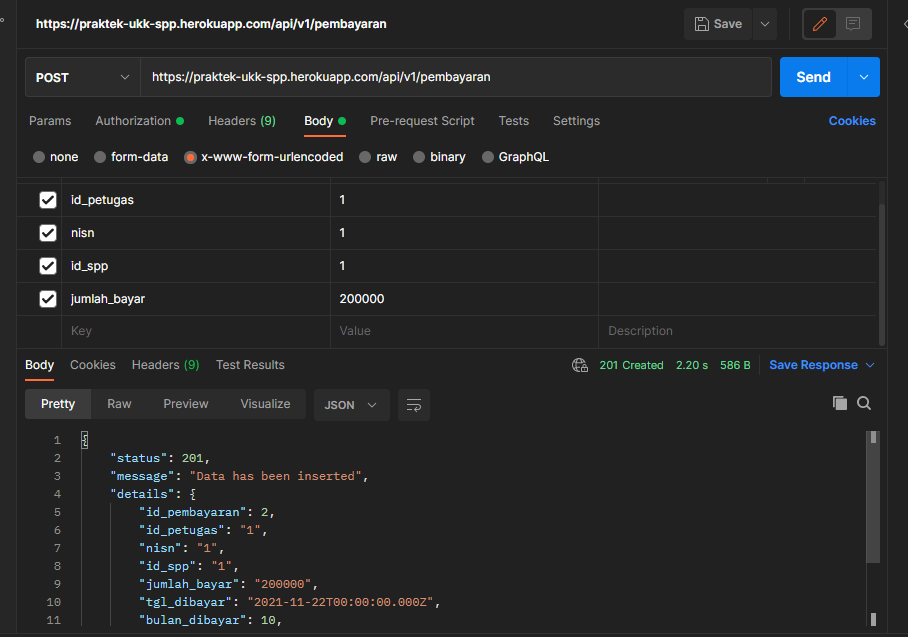
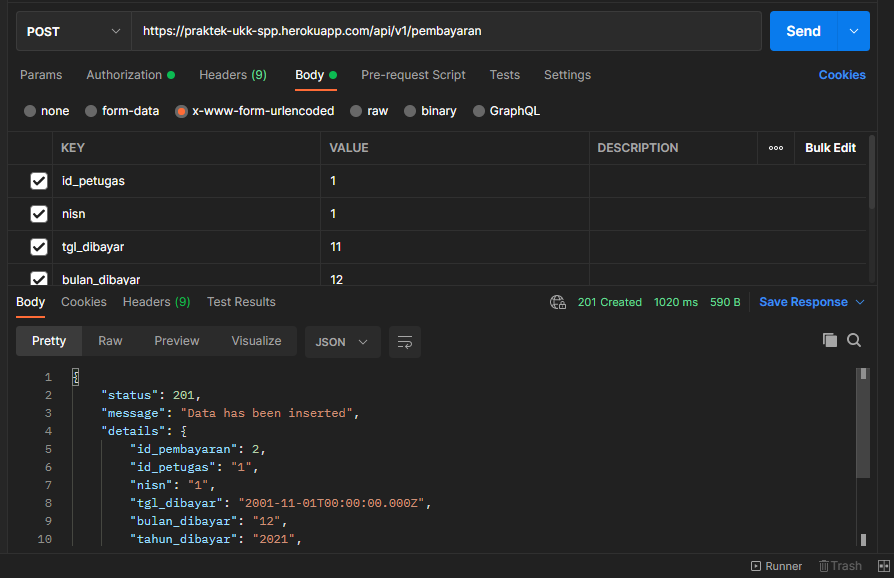
v.1.9.2 added keyword function to search more easier

diff --git a/router/pembayaran.js b/router/pembayaran.js
@@ -16,11 +16,30 @@ app.use(express.urlencoded({ extended: true }));
 
 app.get("/", async (req, res) => {
   let data = {};
-  for (key in req.query) {
-    data[key] = {
-      [Op.like]: `%${req.query[key]}%`,
+
+  if (req.query.keyword) {
+    data = {
+      [Op.or]: [
+        {
+          tgl_dibayar: { [Op.like]: `%${req.query.keyword}%` },
+        },
+        {
+          bulan_dibayar: { [Op.like]: `%${req.query.keyword}%` },
+        },
+        {
+          tahun_dibayar: { [Op.like]: `%${req.query.keyword}%` },
+        },
+        {
+          jumlah_bayar: { [Op.like]: `%${req.query.keyword}%` },
+        },
+      ],
     };
+  } else {
+    for (key in req.query) {
+      data[key] = req.query[key];
+    }
   }
+
   await pembayaran
     .findAll({
       where: data,
@@ -43,6 +62,7 @@ app.get("/", async (req, res) => {
           as: "spp",
         },
       ],
+      order: [["createdAt", "ASC"]],
     })
     .then((pembayaran) => {
       if (pembayaran.length > 0) {
@@ -72,17 +92,13 @@ app.post("/", access_roles(["petugas", "admin"]), async (req, res) => {
   if (
     req.body.id_petugas &&
     req.body.nisn &&
+    req.body.tgl_dibayar &&
+    req.body.bulan_dibayar &&
+    req.body.tahun_dibayar &&
     req.body.id_spp &&
     req.body.jumlah_bayar
   ) {
-    let data = ({ id_petugas, nisn, id_spp, jumlah_bayar } = req.body);
-    const date = new Date().toLocaleString("en-US", {
-      timeZone: "Asia/Jakarta",
-    });
-    const datenow = new Date(date);
-    data["tgl_dibayar"] = datenow.toISOString().split("T")[0];
-    data["bulan_dibayar"] = datenow.getMonth();
-    data["tahun_dibayar"] = datenow.getFullYear();
+    let data = ({ id_petugas, nisn, tgl_dibayar, bulan_dibayar, tahun_dibayar, id_spp, jumlah_bayar } = req.body);
     await pembayaran
       .create(data)
       .then((result) => {
@@ -103,7 +119,7 @@ app.post("/", access_roles(["petugas", "admin"]), async (req, res) => {
     res.status(422).json({
       status: res.statusCode,
       message: "Required body is missing !",
-      details: "Needed body is id_petugas, nisn, id_spp, jumlah_bayar",
+      details: "Needed body is id_petugas, nisn, tgl_dibayar, bulan_dibayar, tahun_dibayar, id_spp, jumlah_bayar",
     });
   }
 });

diff --git a/router/siswa.js b/router/siswa.js
@@ -14,11 +14,33 @@ app.use(express.urlencoded({ extended: true }));
 
 app.get("/", async (req, res) => {
   let data = {};
-  for (key in req.query) {
-    data[key] = {
-      [Op.like]: `%${req.query[key]}%`,
+
+  if (req.query.keyword) {
+    data = {
+      [Op.or]: [
+        {
+          nisn: { [Op.like]: `%${req.query.keyword}%` },
+        },
+        {
+          nis: { [Op.like]: `%${req.query.keyword}%` },
+        },
+        {
+          nama: { [Op.like]: `%${req.query.keyword}%` },
+        },
+        {
+          alamat: { [Op.like]: `%${req.query.keyword}%` },
+        },
+        {
+          no_telp: { [Op.like]: `%${req.query.keyword}%` },
+        },
+      ],
     };
+  } else {
+    for (key in req.query) {
+      data[key] = req.query[key];
+    }
   }
+  
   await siswa
     .findAll({
       where: data,
@@ -118,12 +140,12 @@ app.put("/", access_roles(["admin"]), async (req, res) => {
     }
 
     if (req.body.new_nisn) {
-      delete data["new_nisn"]
-      data["nisn"] = req.body.new_nisn
+      delete data["new_nisn"];
+      data["nisn"] = req.body.new_nisn;
     }
 
     if (data.password) {
-      delete data["password"]
+      delete data["password"];
     }
 
     await siswa

diff --git a/router/petugas.js b/router/petugas.js
@@ -14,11 +14,27 @@ app.use(express.urlencoded({ extended: true }));
 
 app.get("/", async (req, res) => {
   let data = {};
-  for (key in req.query) {
-    data[key] = {
-      [Op.like]: `%${req.query[key]}%`,
+
+  if (req.query.keyword) {
+    data = {
+      [Op.or]: [
+        {
+          username: { [Op.like]: `%${req.query.keyword}%` },
+        },
+        {
+          nama_petugas: { [Op.like]: `%${req.query.keyword}%` },
+        },
+        {
+          level: { [Op.like]: `%${req.query.keyword}%` },
+        },
+      ],
     };
+  } else {
+    for (key in req.query) {
+      data[key] = req.query[key];
+    }
   }
+
   await petugas
     .findAll({
       where: data,

diff --git a/router/kelas.js b/router/kelas.js
@@ -13,11 +13,27 @@ app.use(express.urlencoded({ extended: true }));
 
 app.get("/", async (req, res) => {
   let data = {};
-  for (key in req.query) {
-    data[key] = {
-      [Op.like]: `%${req.query[key]}%`,
+
+  if (req.query.keyword) {
+    data = {
+      [Op.or]: [
+        {
+          nama_kelas: { [Op.like]: `%${req.query.keyword}%` },
+        },
+        {
+          jurusan: { [Op.like]: `%${req.query.keyword}%` },
+        },
+        {
+          angkatan: { [Op.like]: `%${req.query.keyword}%` },
+        },
+      ],
     };
+  } else {
+    for (key in req.query) {
+      data[key] = req.query[key];
+    }
   }
+
   await kelas
     .findAll({
       where: data,

diff --git a/router/spp.js b/router/spp.js
@@ -13,10 +13,24 @@ app.use(express.urlencoded({ extended: true }));
 
 app.get("/", async (req, res) => {
   let data = {};
-  for (key in req.query) {
-    data[key] = {
-      [Op.like]: `%${req.query[key]}%`,
+  if (req.query.keyword) {
+    data = {
+      [Op.or]: [
+        {
+          angkatan: { [Op.like]: `%${req.query.keyword}%` },
+        },
+        {
+          tahun: { [Op.like]: `%${req.query.keyword}%` },
+        },
+        {
+          nominal: { [Op.like]: `%${req.query.keyword}%` },
+        },
+      ],
     };
+  } else {
+    for (key in req.query) {
+      data[key] = req.query[key];
+    }
   }
   await spp
     .findAll({

diff --git a/README.md b/README.md
@@ -10,6 +10,9 @@ Rest API for android-based spp payment apps practice to facilitate backend commu
 ## Request Method 🧧
 
 ### GET 🎣
+All router has function keyword, to search all column (except id, uniqe, index key) 
+<code><img height=300 src="https://github.com/Kelompok-2-SPP/Rest-API/blob/master/.github/image/keyword-get.png" alt="Keyword example"></code>
+
 ### 1. [Kelas-All](https://praktek-ukk-spp.herokuapp.com/api/v1/kelas)
 <code><img height=300 src="https://github.com/Kelompok-2-SPP/Rest-API/blob/master/.github/image/kelas-get-1.png" alt="Kelas Get-1"></code>
 <code><img height=300 src="https://github.com/Kelompok-2-SPP/Rest-API/blob/master/.github/image/kelas-get-2.png" alt="Kelas Get-2"></code>
